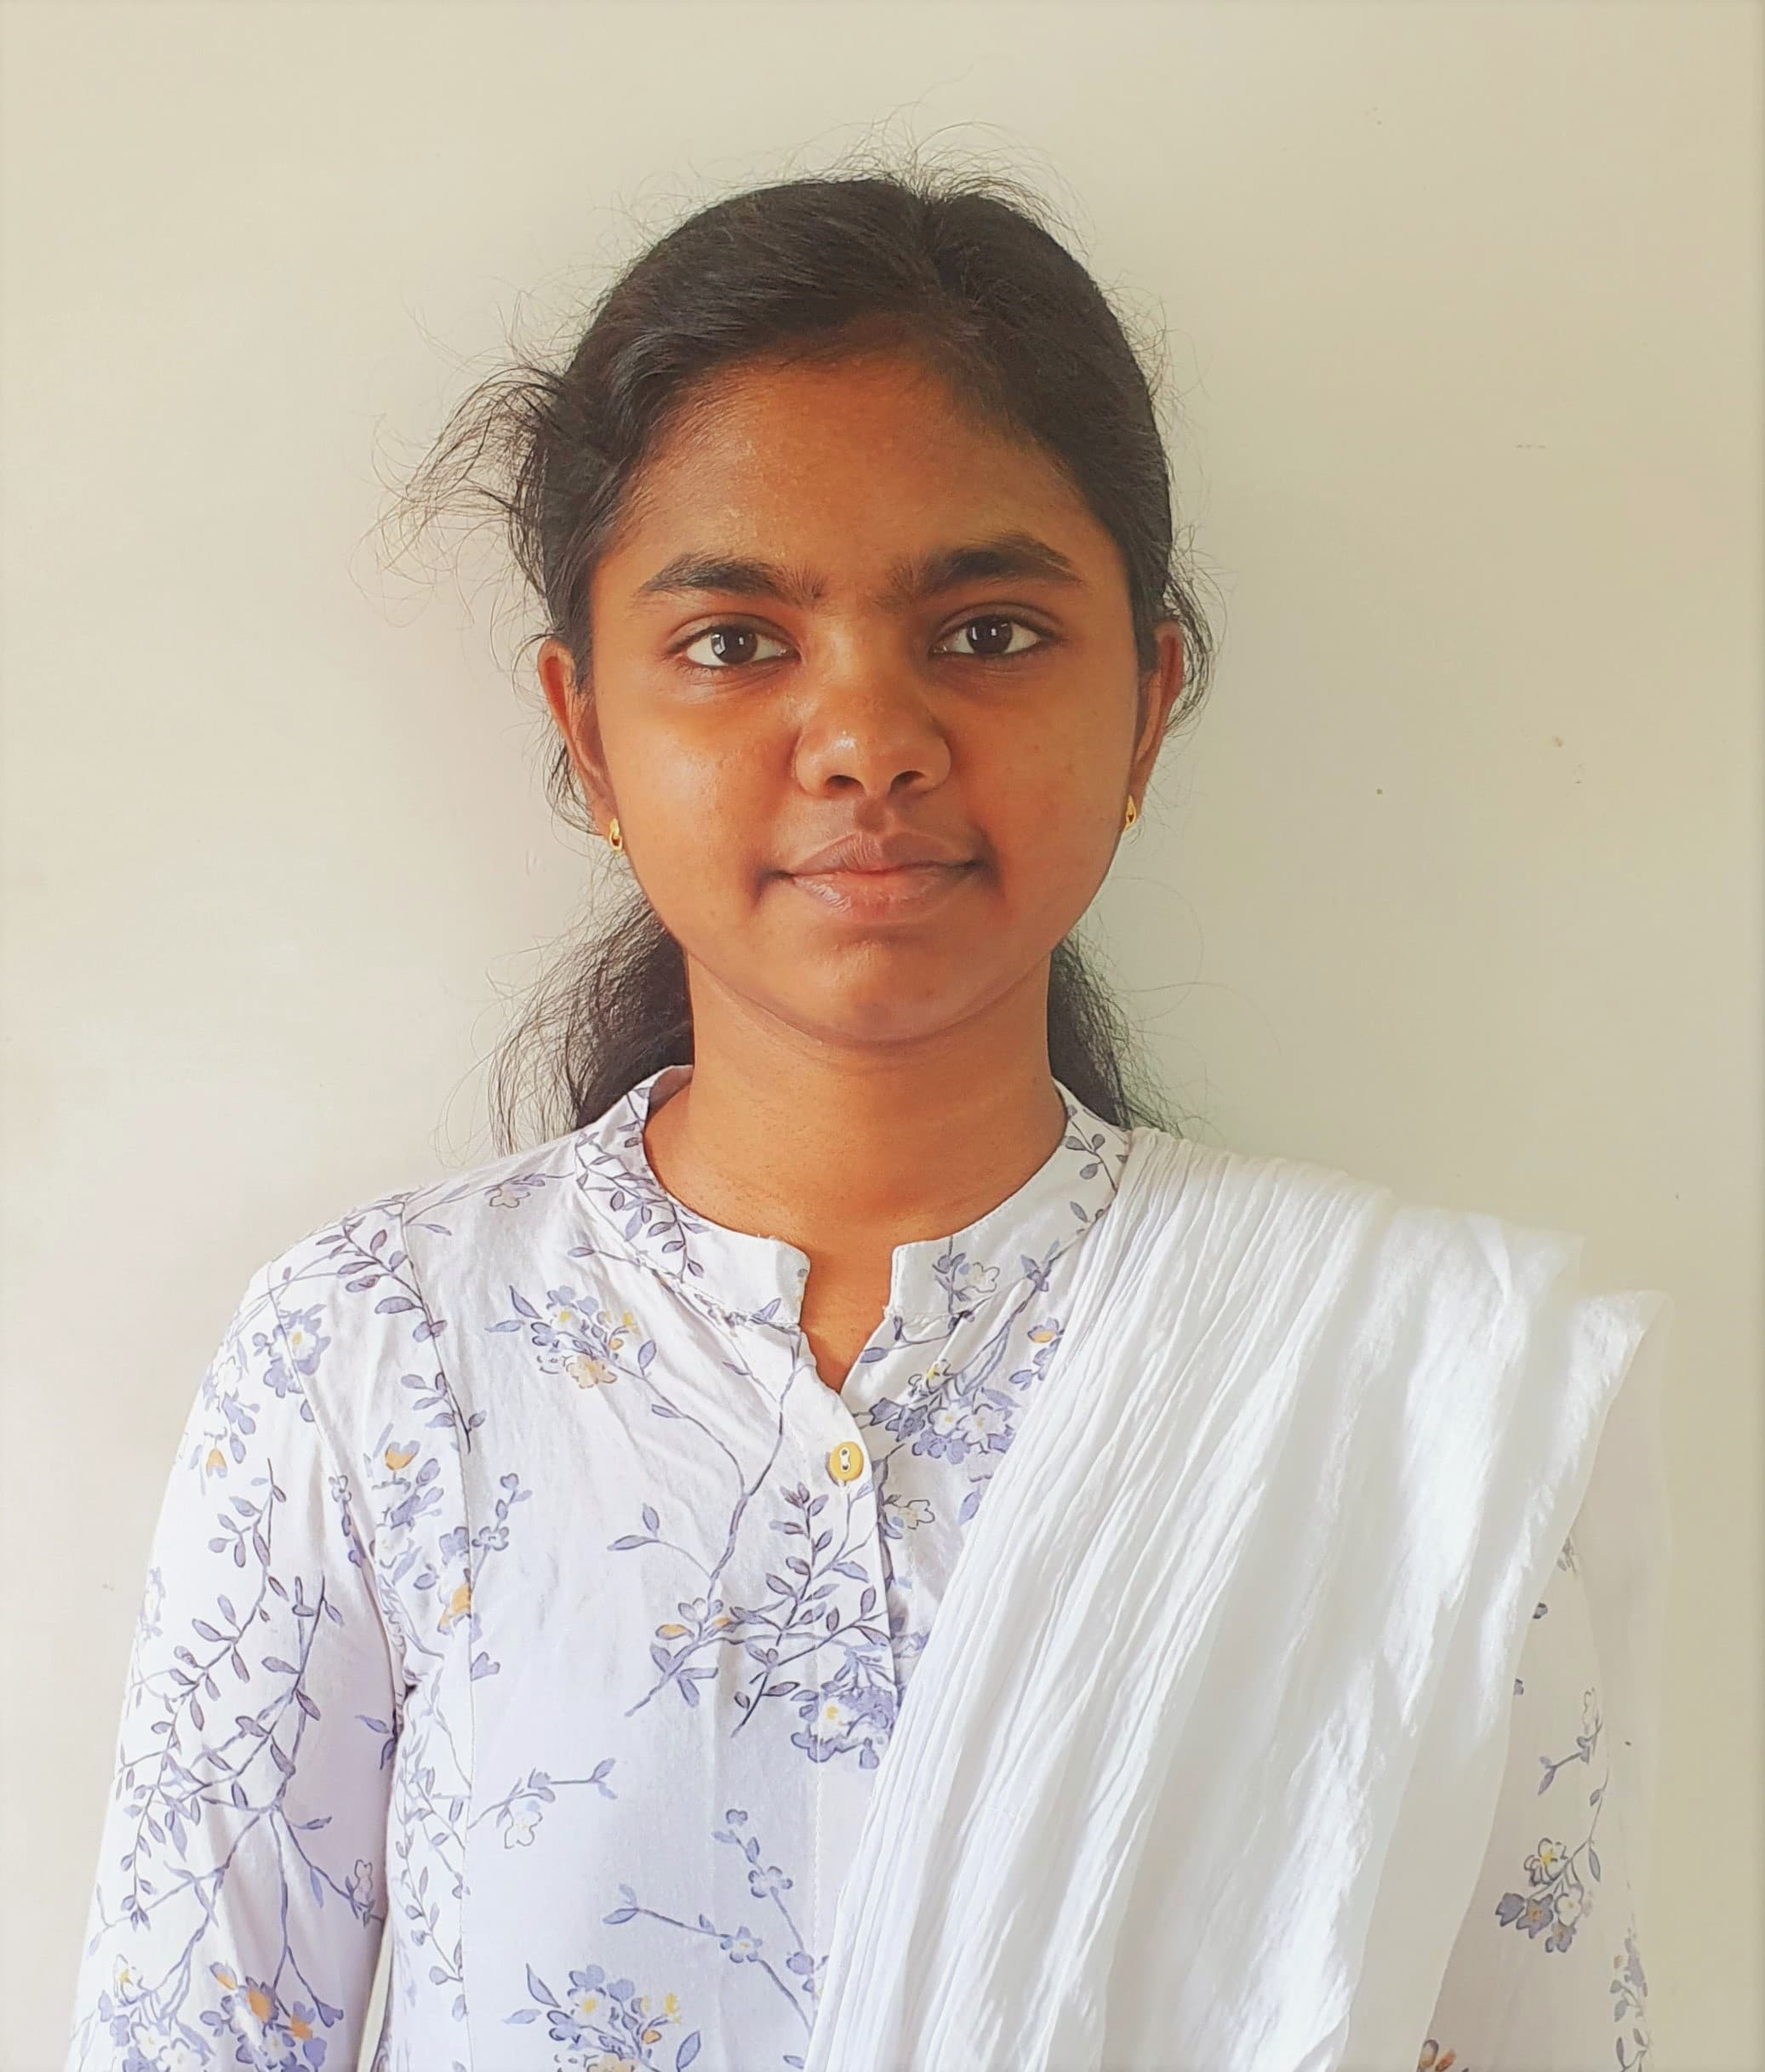
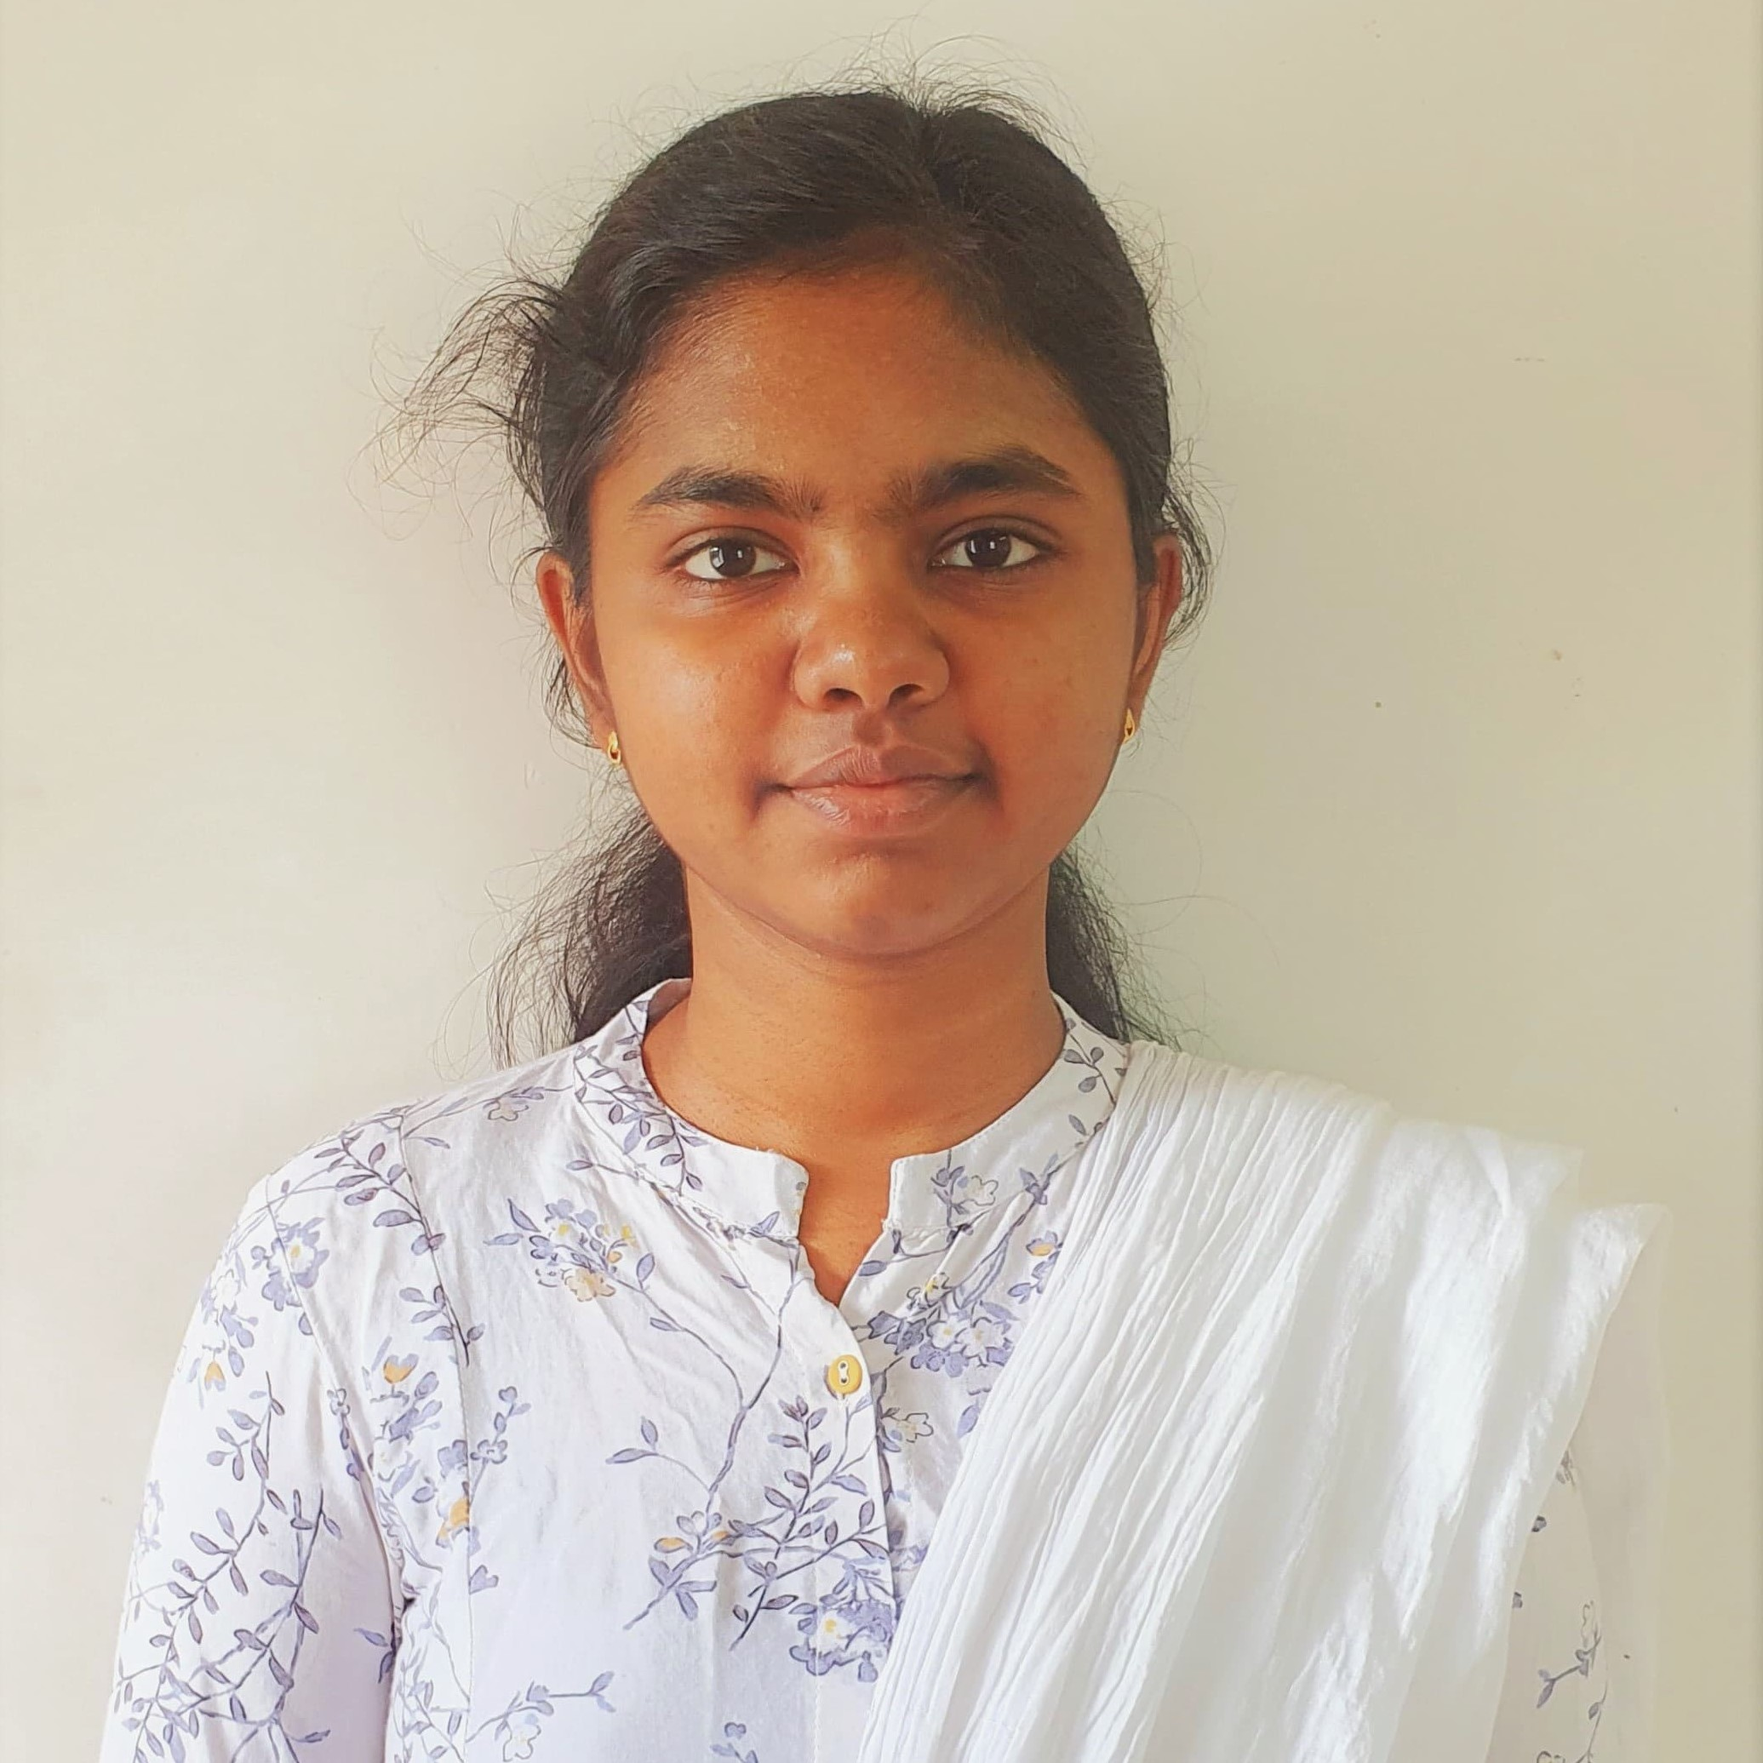
fix reverse name, missing photo, image dimension

Changed region(s): [[0.0309, 0.0309, 0.9271, 1.0], [0.309, 0.8344, 0.3399, 0.8653]]

diff --git a/frontend/src/components/footer.jsx b/frontend/src/components/footer.jsx
@@ -61,7 +61,7 @@ export default function Footer() {
       bg={useColorModeValue('white', 'gray.900')}
       color={useColorModeValue('gray.700', 'gray.200')}>
       <Container as={Stack} maxW={'8xl'} py={10}>
-        <SimpleGrid columns={{ base: 1, sm: 2, md: 5 }} spacing={10}>
+        <SimpleGrid columns={{ base: 1, sm: 1, md: 5 }} spacing={10}>
           <Stack align={'flex-start'}>
             <ListHeader>PAGES</ListHeader>
             <Link href={'/home'}>Home</Link>
@@ -73,15 +73,15 @@ export default function Footer() {
           <Stack align={'flex-start'}>
             <ListHeader>CONTACTS</ListHeader>
             
-            <Text >Merciidus R E<Link href={'#'} color={'accent'} ml={2}>+91 9677614593</Link></Text>
+            <Text >Merciidus R E<Link href={'tel:+919677614593'} color={'accent'} ml={2}>+919677614593</Link></Text>
             
             
             
-            <Text >Ezhilarasan V<Link href={'#'} color={'accent'} ml={2}>+91 7502550473</Link></Text>
+            <Text >Ezhilarasan V<Link href={'tel:+917502550473'} color={'accent'} ml={2}>+917502550473</Link></Text>
             
             
             
-            <Text >Prasanna P<Link href={'#'} color={'accent'} ml={5}>+91 7358836573</Link></Text>
+            <Text >Prasanna P<Link href={'tel:+917358836573'} color={'accent'} ml={5}>+917358836573</Link></Text>
             
             
           </Stack>

diff --git a/frontend/src/data/membersDat.js b/frontend/src/data/membersDat.js
@@ -70,7 +70,7 @@ export const MEMBERDATA = [
     position: 'Events Head',
     image: 'Events_Head_Nikila MB - Mb Nikila.jpeg',
   },
-  {
+  /*{
     name: 'Rakesh Kumar K R',
     position: 'Public Relations And Hospitality Head',
     image: 'not-found.jpeg',
@@ -79,7 +79,7 @@ export const MEMBERDATA = [
     name: 'Aparna P',
     position: 'Public Relations And Hospitality Head',
     image: 'not-found.jpeg',
-  },
+  },*/
   {
     name: 'Meruva Reddi Narasimha',
     position: 'Public Relations And Hospitality Head',
@@ -133,7 +133,7 @@ export const MEMBERDATA = [
   {
     name: 'Prathiksha R',
     position: 'Publicity Head',
-    image: 'not-found.jpeg',
+    image: 'IMG20211012085639 - yamini ramesh.jpg',
   },
   {
     name: 'Shimrith Pearlin Priscilla',
@@ -146,7 +146,7 @@ export const MEMBERDATA = [
     image: 'IMG_20211227_100927__01 - anish rai.jpg',
   },
   {
-    name: 'Emuhil K',
+    name: 'Elamuhil K',
     position: 'Alumni Relations Co-Head',
     image: 'Alimni Relatin_Co-Head_Elamuhil K - Elamuhil K.JPG',
   },

diff --git a/frontend/src/components/members.jsx b/frontend/src/components/members.jsx
@@ -33,7 +33,7 @@ const Feature = ({ title, text, icon }) => {
       </Flex>
       <HStack spacing={1}>
       <Text m={0} p={0} fontWeight={600} color={'accent'} fontSize={15}>{title.split(' ')[0]}</Text>
-      <Text  m={0} p={0} fontWeight={400} fontSize={15}>{title.split(' ').reverse().slice( 0,-1).join(' ')}</Text>
+      <Text  m={0} p={0} fontWeight={400} fontSize={15}>{title.split(' ').reverse().slice( 0,-1).reverse().join(' ')}</Text>
       </HStack>
       <Text color={'gray.600'}fontSize={13} mt={0}>{text}</Text>
     </Stack>
